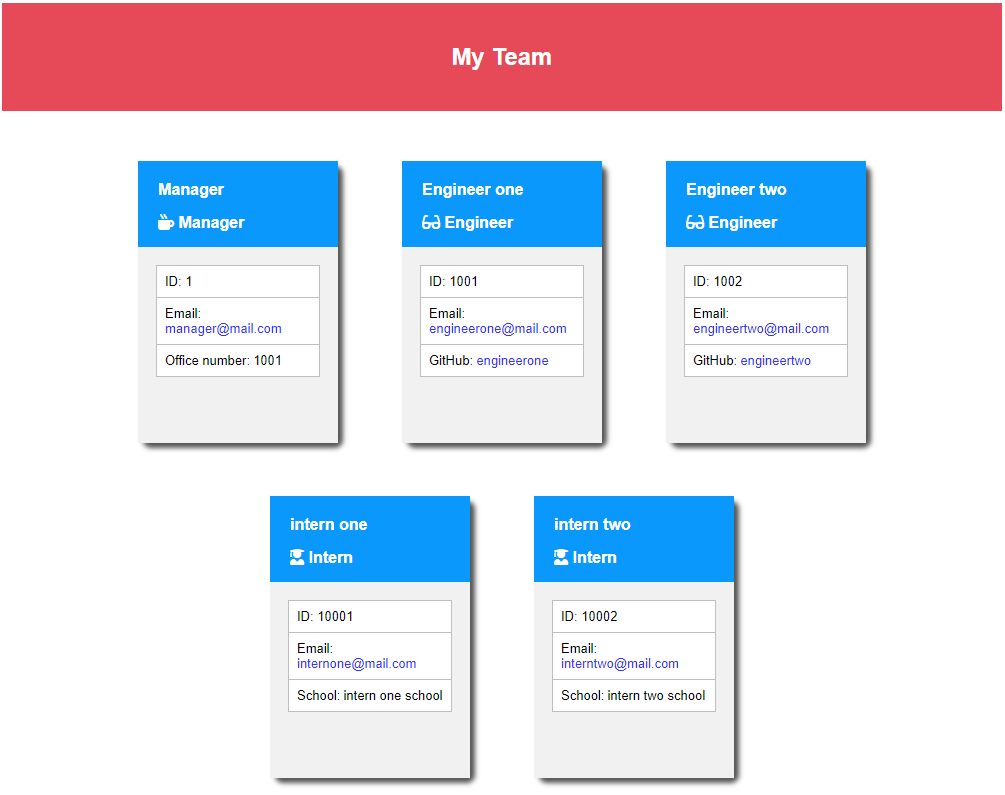
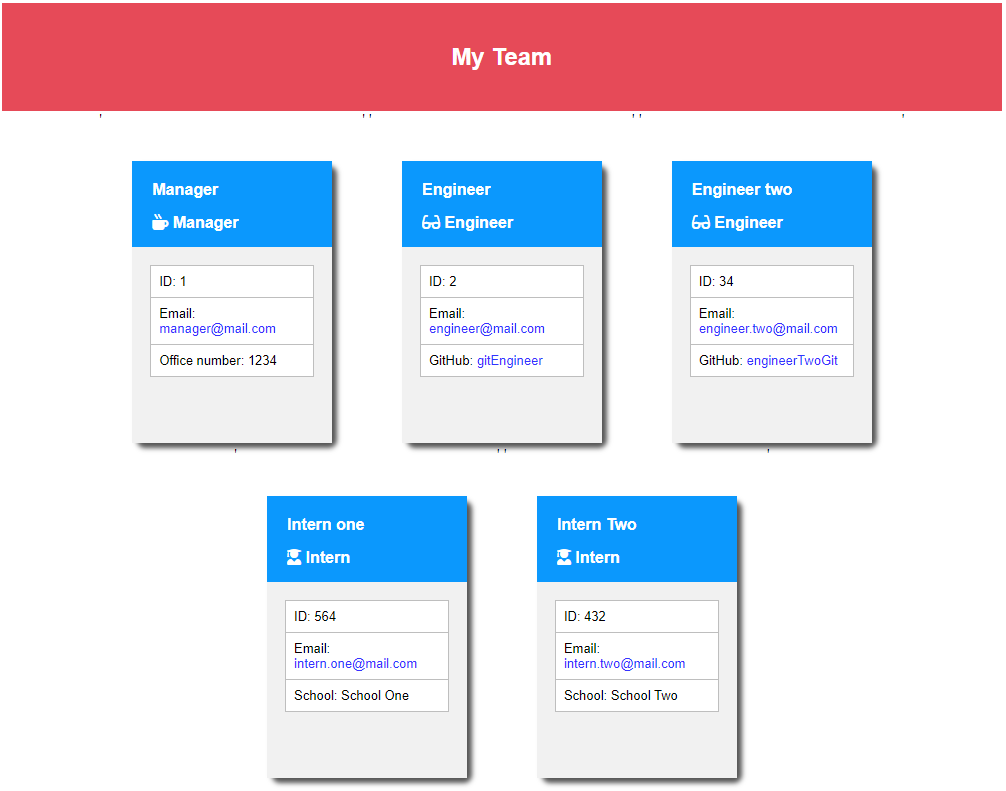
added readme file

diff --git a/output/team.html b/output/team.html
@@ -98,14 +98,74 @@
     '<div class="outer">
     <div class="box">
         <div class="heading">
-            <h4>jgr</h4>
+            <h4>Manager</h4>
             <h4><i class="fas fa-mug-hot"></i> Manager</h4>
         </div>
         <div class="details">
             <div class="item">
-                <p>ID: <span>234</span></p>
-                <p>Email: <span class="link">mgr@mail.com</span></p>
-                <p class="last-item">Office number: <span>23412</span></p>
+                <p>ID: <span>1</span></p>
+                <p>Email: <span class="link">manager@mail.com</span></p>
+                <p class="last-item">Office number: <span>1234</span></p>
+            </div>
+        </div>
+    </div>
+</div>'
+'<div class="outer">
+    <div class="box">
+        <div class="heading">
+            <h4>Engineer</h4>
+            <h4><i class="fas fa-glasses"></i> Engineer</h4>
+        </div>
+        <div class="details">
+            <div class="item">
+                <p>ID: <span>2</span></p>
+                <p>Email: <span class="link">engineer@mail.com</span></p>
+                <p class="last-item">GitHub: <span class="link">gitEngineer</span></p>
+            </div>
+        </div>
+    </div>
+</div>'
+'<div class="outer">
+    <div class="box">
+        <div class="heading">
+            <h4>Engineer two</h4>
+            <h4><i class="fas fa-glasses"></i> Engineer</h4>
+        </div>
+        <div class="details">
+            <div class="item">
+                <p>ID: <span>34</span></p>
+                <p>Email: <span class="link">engineer.two@mail.com</span></p>
+                <p class="last-item">GitHub: <span class="link">engineerTwoGit</span></p>
+            </div>
+        </div>
+    </div>
+</div>'
+'<div class="outer">
+    <div class="box">
+        <div class="heading">
+            <h4>Intern one</h4>
+            <h4><i class="fas fa-user-graduate"></i> Intern</h4>
+        </div>
+        <div class="details">
+            <div class="item">
+                <p>ID: <span>564</span></p>
+                <p>Email: <span class="link">intern.one@mail.com</span></p>
+                <p class="last-item">School: <span>School One</span></p>
+            </div>
+        </div>
+    </div>
+</div>'
+'<div class="outer">
+    <div class="box">
+        <div class="heading">
+            <h4>Intern Two</h4>
+            <h4><i class="fas fa-user-graduate"></i> Intern</h4>
+        </div>
+        <div class="details">
+            <div class="item">
+                <p>ID: <span>432</span></p>
+                <p>Email: <span class="link">intern.two@mail.com</span></p>
+                <p class="last-item">School: <span>School Two</span></p>
             </div>
         </div>
     </div>
